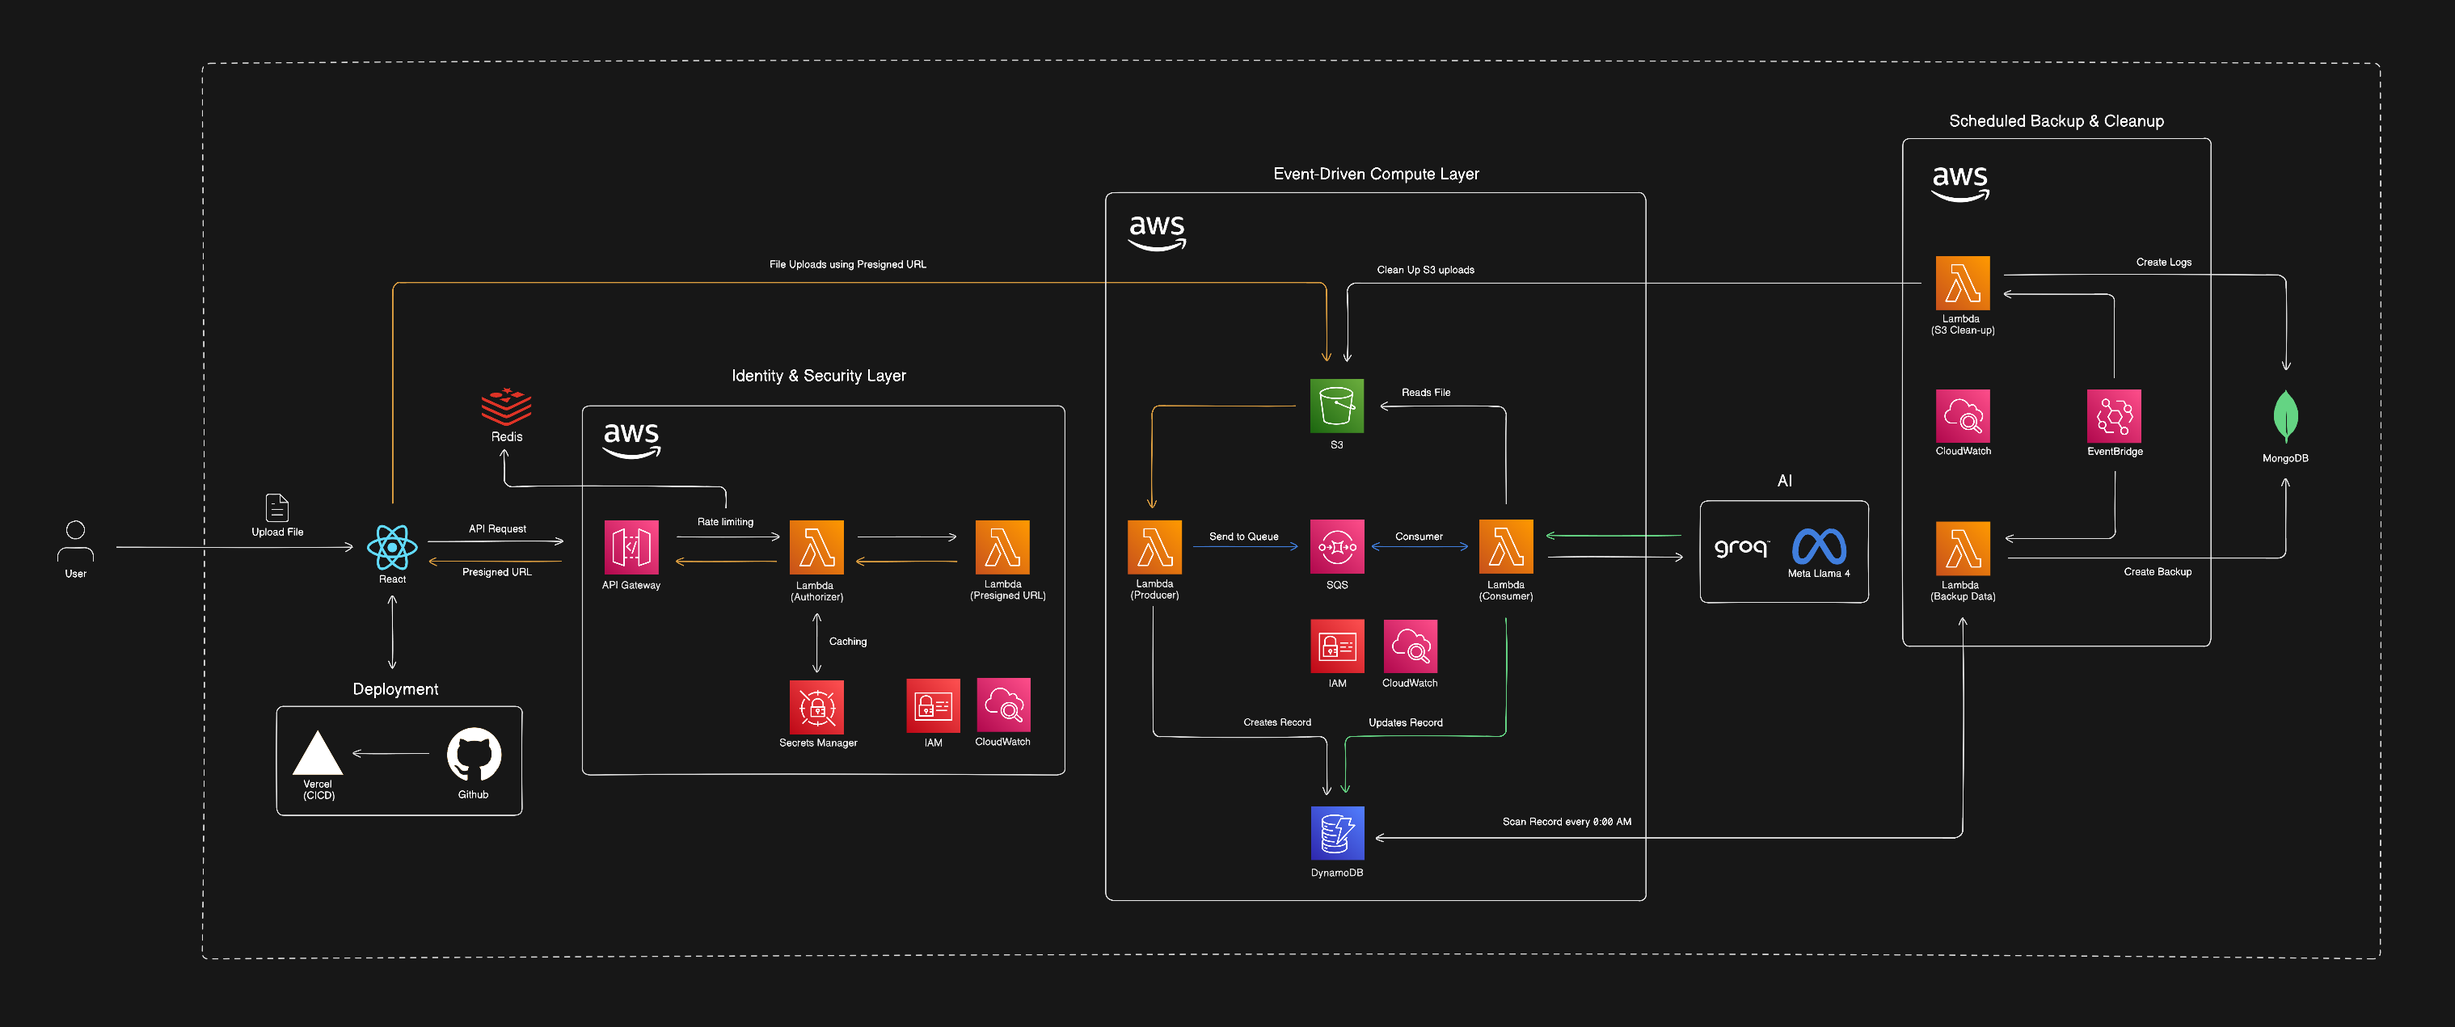
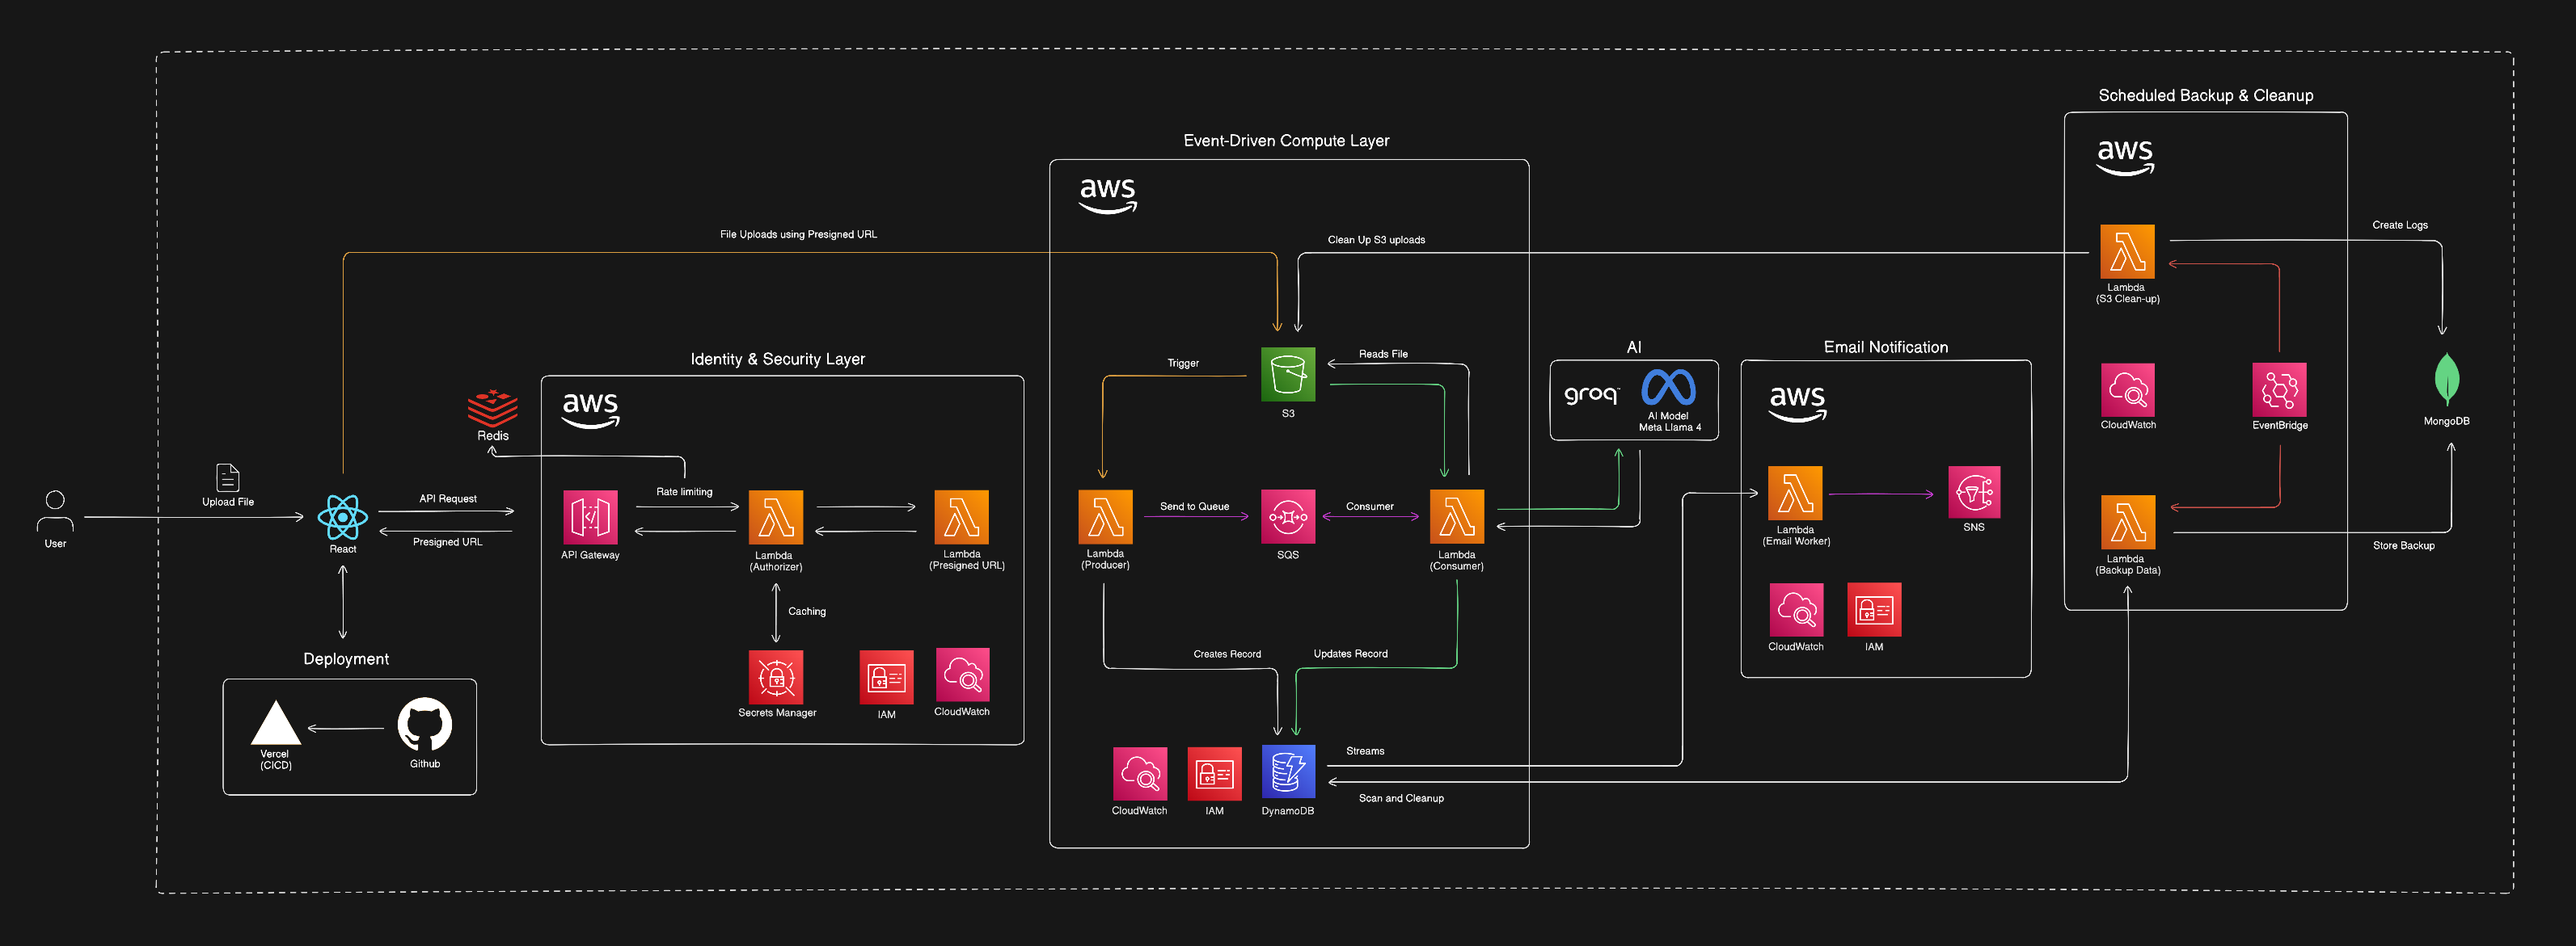
Update the readme

diff --git a/frontend/src/components/custom/DrawerRightSide.tsx b/frontend/src/components/custom/DrawerRightSide.tsx
@@ -51,13 +51,20 @@ export default function DrawerRightSide() {
         </DrawerHeader>
         <div className="no-scrollbar overflow-y-auto px-4">
           <TechBadge />
-          <div>
-            Serverless CV summarization engine uses an event-driven AWS pipeline
-            where files uploaded to Amazon S3 trigger AWS Lambda to extract data
-            into Amazon DynamoDB. AI processing is decoupled via Amazon SQS and
-            executed using Groq AI, with results persisted back to DynamoDB.
-            Scheduled jobs with Amazon EventBridge sync data backup, logs to
-            MongoDB.
+          <div className="text-justify">
+            <h2 className="mb-2 mt-6">Description:</h2>
+            This serverless CV summarization engine utilizes an event-driven AWS
+            architecture to ensure high scalability, loose coupling, Files
+            uploaded to Amazon S3 trigger an AWS Lambda function to extract CV
+            data, which is then persisted in Amazon DynamoDB, while asynchronous
+            AI processing is offloaded to Amazon SQS to ensure system resiliency
+            during high traffic, allowing a consumer Lambda to execute
+            summarization via Groq AI and update the database with final
+            results. Upon successful completion, the pipeline publishes an event
+            to an Amazon SNS topic to trigger real-time notifications for
+            downstream services or users, and Amazon EventBridge manages
+            scheduled jobs for data backups and log synchronization to MongoDB
+            to maintain data consistency and archival compliance.
           </div>
         </div>
         <DrawerFooter>

diff --git a/frontend/src/components/custom/TechBadge.tsx b/frontend/src/components/custom/TechBadge.tsx
@@ -4,12 +4,13 @@ export default function TechBadge() {
   return (
     <>
       <div className="mb-4">
-        <h3 className="mb-2">Technologies:</h3>
+        <h3 className="mb-3">Technologies:</h3>
         <div className="flex w-full flex-wrap justify-center gap-2">
           <Badge variant="outline">AWS Lambda</Badge>
           <Badge variant="outline">AWS API Gateway</Badge>
           <Badge variant="outline">AWS S3 Bucket</Badge>
           <Badge variant="outline">AWS SQS</Badge>
+          <Badge variant="outline">AWS SNS</Badge>
           <Badge variant="outline">AWS EventBridge</Badge>
           <Badge variant="outline">AWS Secrets Manager</Badge>
           <Badge variant="outline">AWS IAM</Badge>

diff --git a/frontend/src/components/custom/MainCard.tsx b/frontend/src/components/custom/MainCard.tsx
@@ -26,7 +26,7 @@ type FormState = {
 
 export default function MainCard() {
   const [form, setForm] = useState<FormState>({
-    email: "michaelantoni.tech@gmail.com",
+    email: "",
     files: null,
   });
 

diff --git a/readme.md b/readme.md
@@ -1,8 +1,8 @@
 # AWS Serverless CV Summarizer
 
-Serverless CV summarization engine uses an event-driven AWS pipeline where files uploaded to `Amazon S3` trigger `AWS Lambda` to extract data into `Amazon DynamoDB`. AI processing is decoupled via `Amazon SQS` and executed using `Groq AI`, with results persisted back to DynamoDB. Scheduled jobs with `Amazon EventBridge` sync data backup, logs to `MongoDB`.
+This serverless CV summarization engine utilizes an event-driven AWS architecture to ensure high scalability, loose coupling. Files uploaded to `Amazon S3 trigger` an `AWS Lambda` function to extract CV data, which is then persisted in `Amazon DynamoDB`, while asynchronous AI processing is offloaded to `Amazon SQS` to ensure system resiliency during high traffic, allowing a consumer Lambda to execute summarization via `Groq AI` and update the database with final results. Upon successful completion, the pipeline publishes an event to an `Amazon SNS` topic to trigger real-time notifications for downstream services or users, and `Amazon EventBridge` manages scheduled jobs for data backups and log synchronization to `MongoDB` to maintain data consistency and archival compliance.
 
-#### Flow Diagram:
+#### Flow Diagram:`
 
 ![image](image01.png)
 
@@ -18,6 +18,7 @@ Serverless CV summarization engine uses an event-driven AWS pipeline where files
 - `cv-summarizer-get-s3-presigned-url`
 - `cv-summarizer-s3-intake-service`
 - `cv-summarizer-s3-queue-consumer`
+- `cv-summarizer-s3-dispatch-email`
 - `cv-summarizer-sync-metadata-to-mongodb`
 - `cv-summarizer-s3-cleanup`
 
